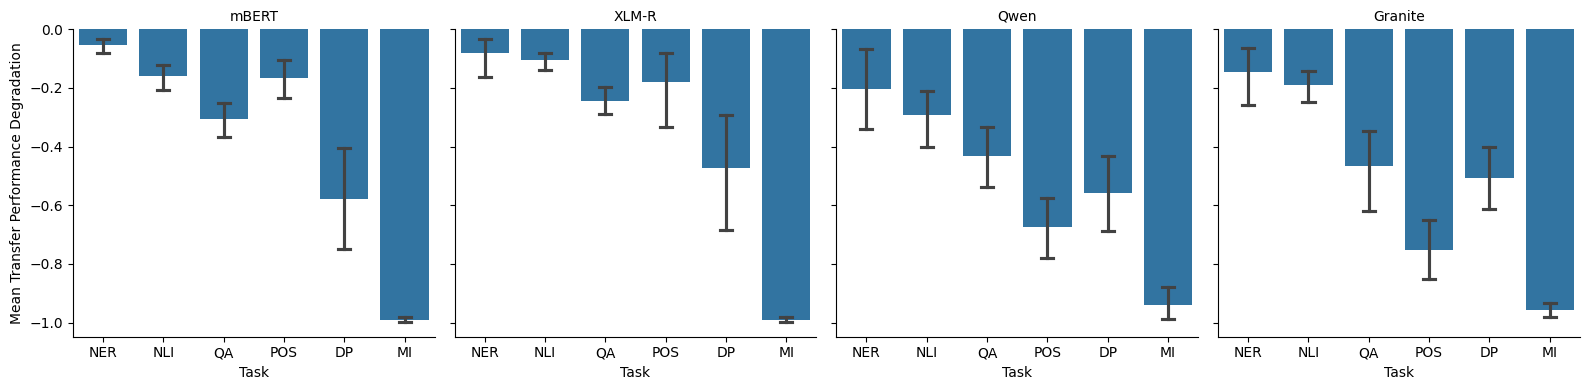
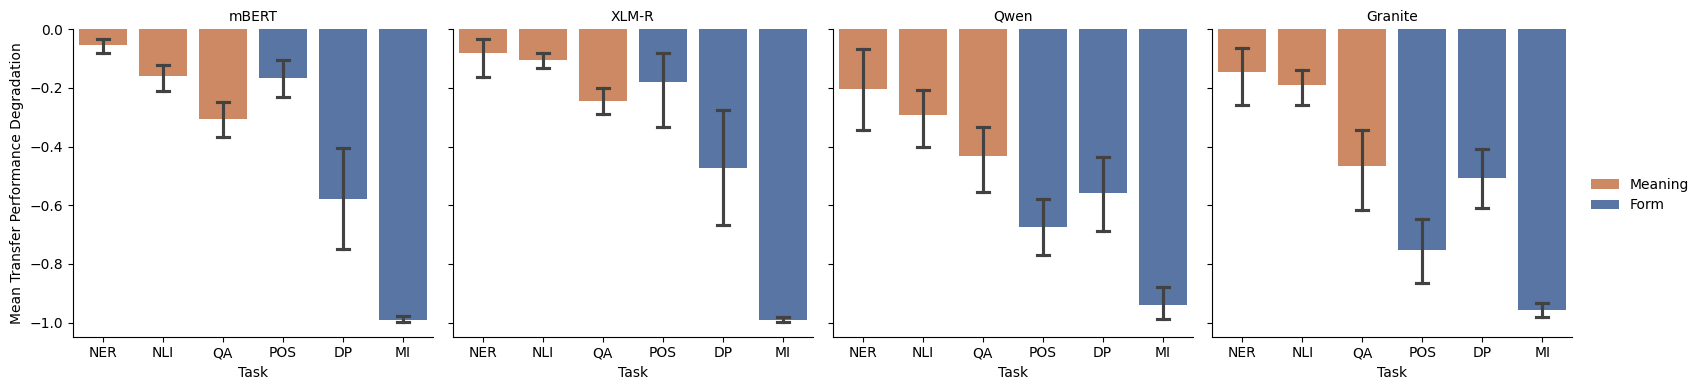
typo in POS retrain

diff --git a/scripts/pos/POS_train.py b/scripts/pos/POS_train.py
@@ -168,7 +168,7 @@ def train_POS_model_causal(model_checkpoint, GUM_folder: Optional[str] = "GUM_en
         dataset = DatasetDict({"train": Dataset.from_pandas(train_dataset), "dev": Dataset.from_pandas(dev_dataset)})
     elif PUD_folder is not None:
         ds = load_conllu_data(f"{PUD_folder}/en_pud-ud-test.conllu")
-        ds_split = Dataset.from_pandas(train_dataset).train_test_split(test_size=0.1)
+        ds_split = Dataset.from_pandas(ds).train_test_split(test_size=0.1)
         dataset = DatasetDict({"train": ds_split["train"], "dev": ds_split["test"]})
     else:
         raise Exception("please point to a valid training data folder, either GUM or PUD.")